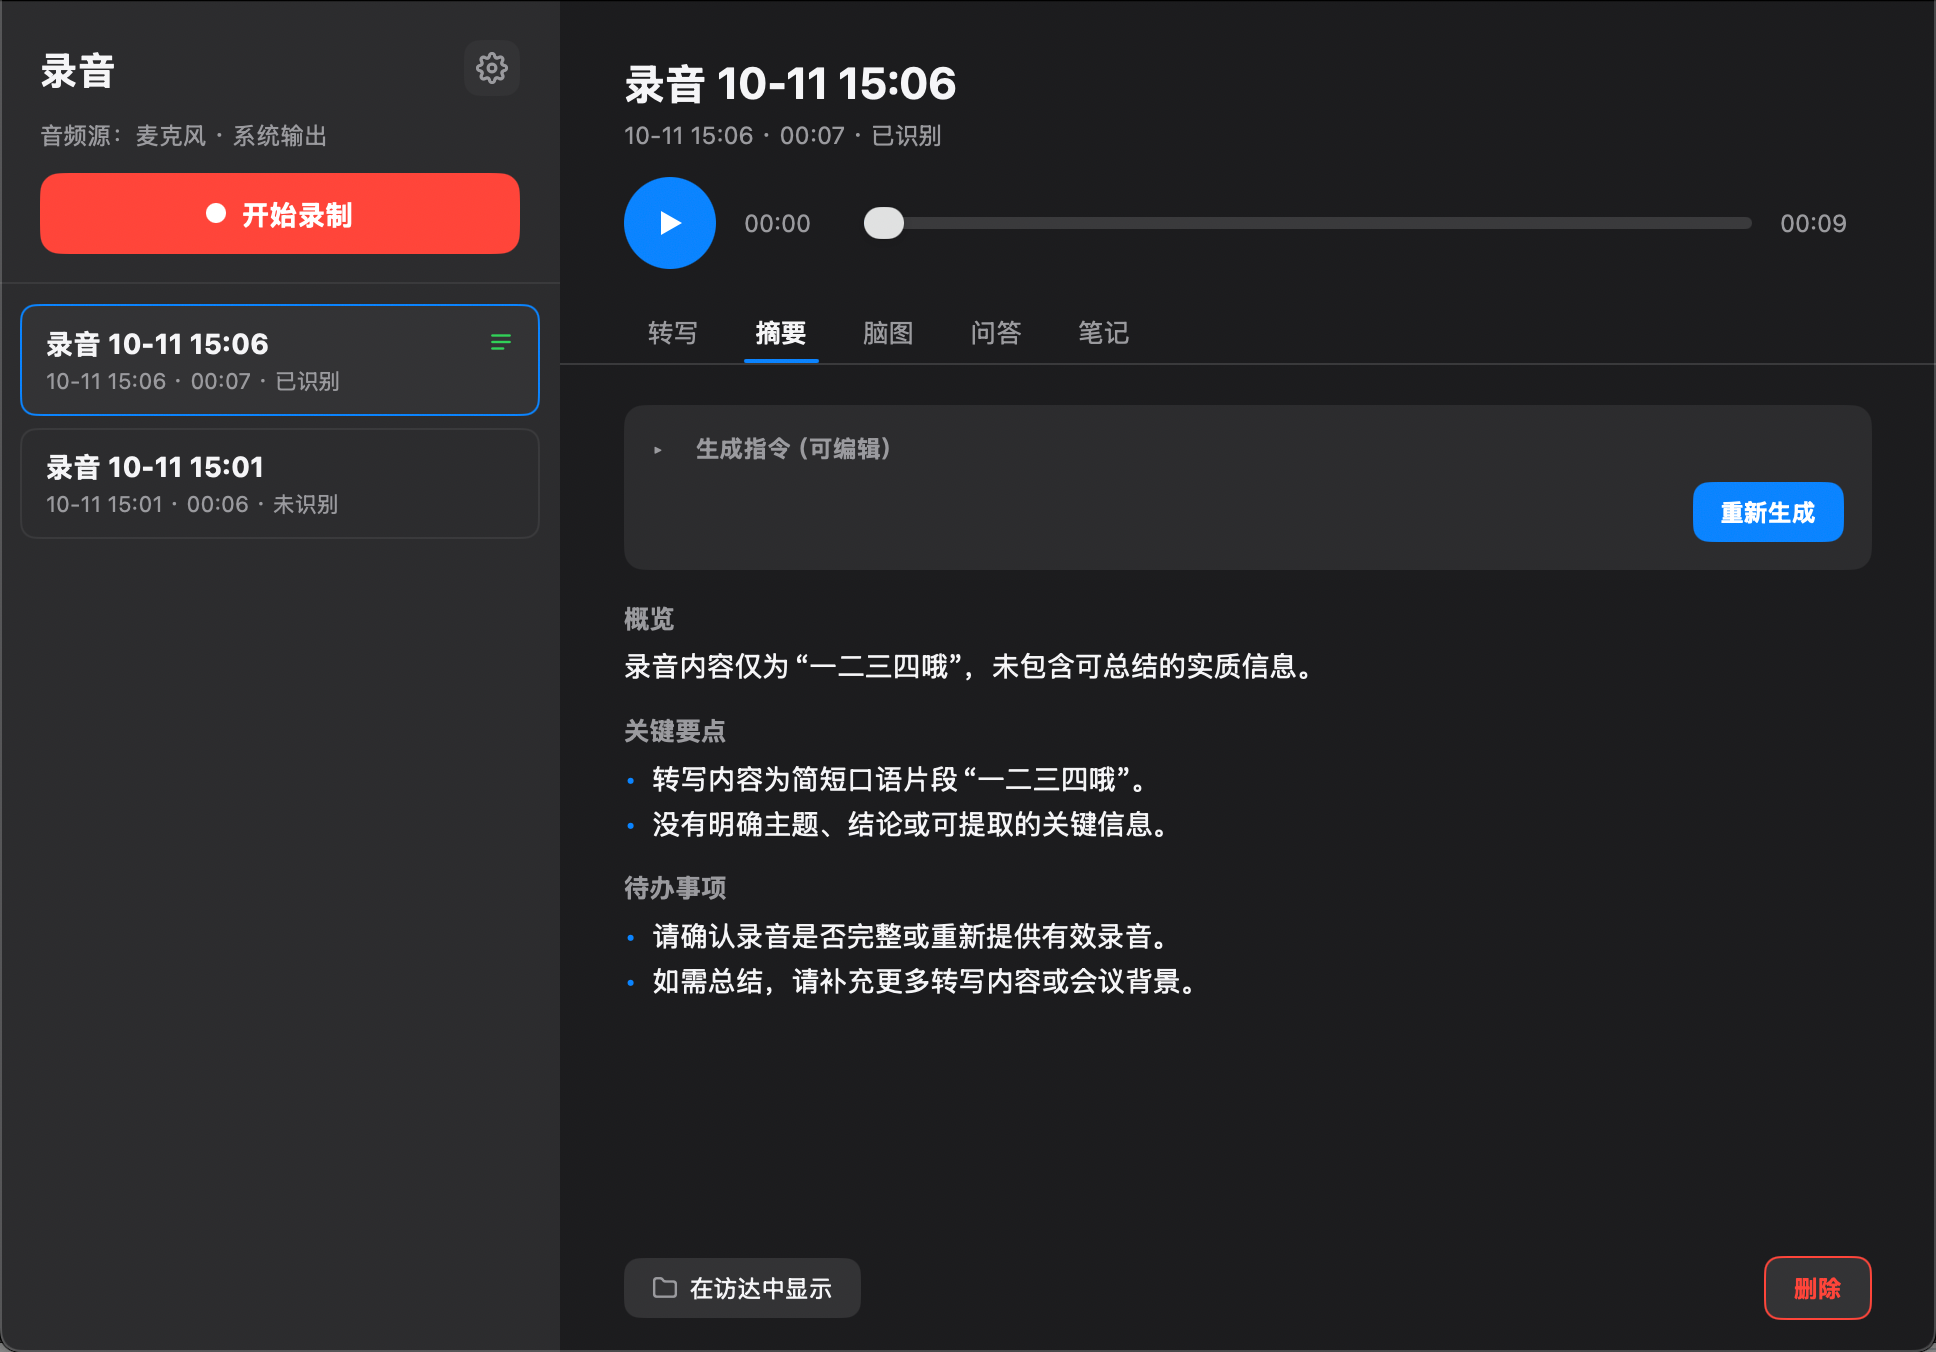
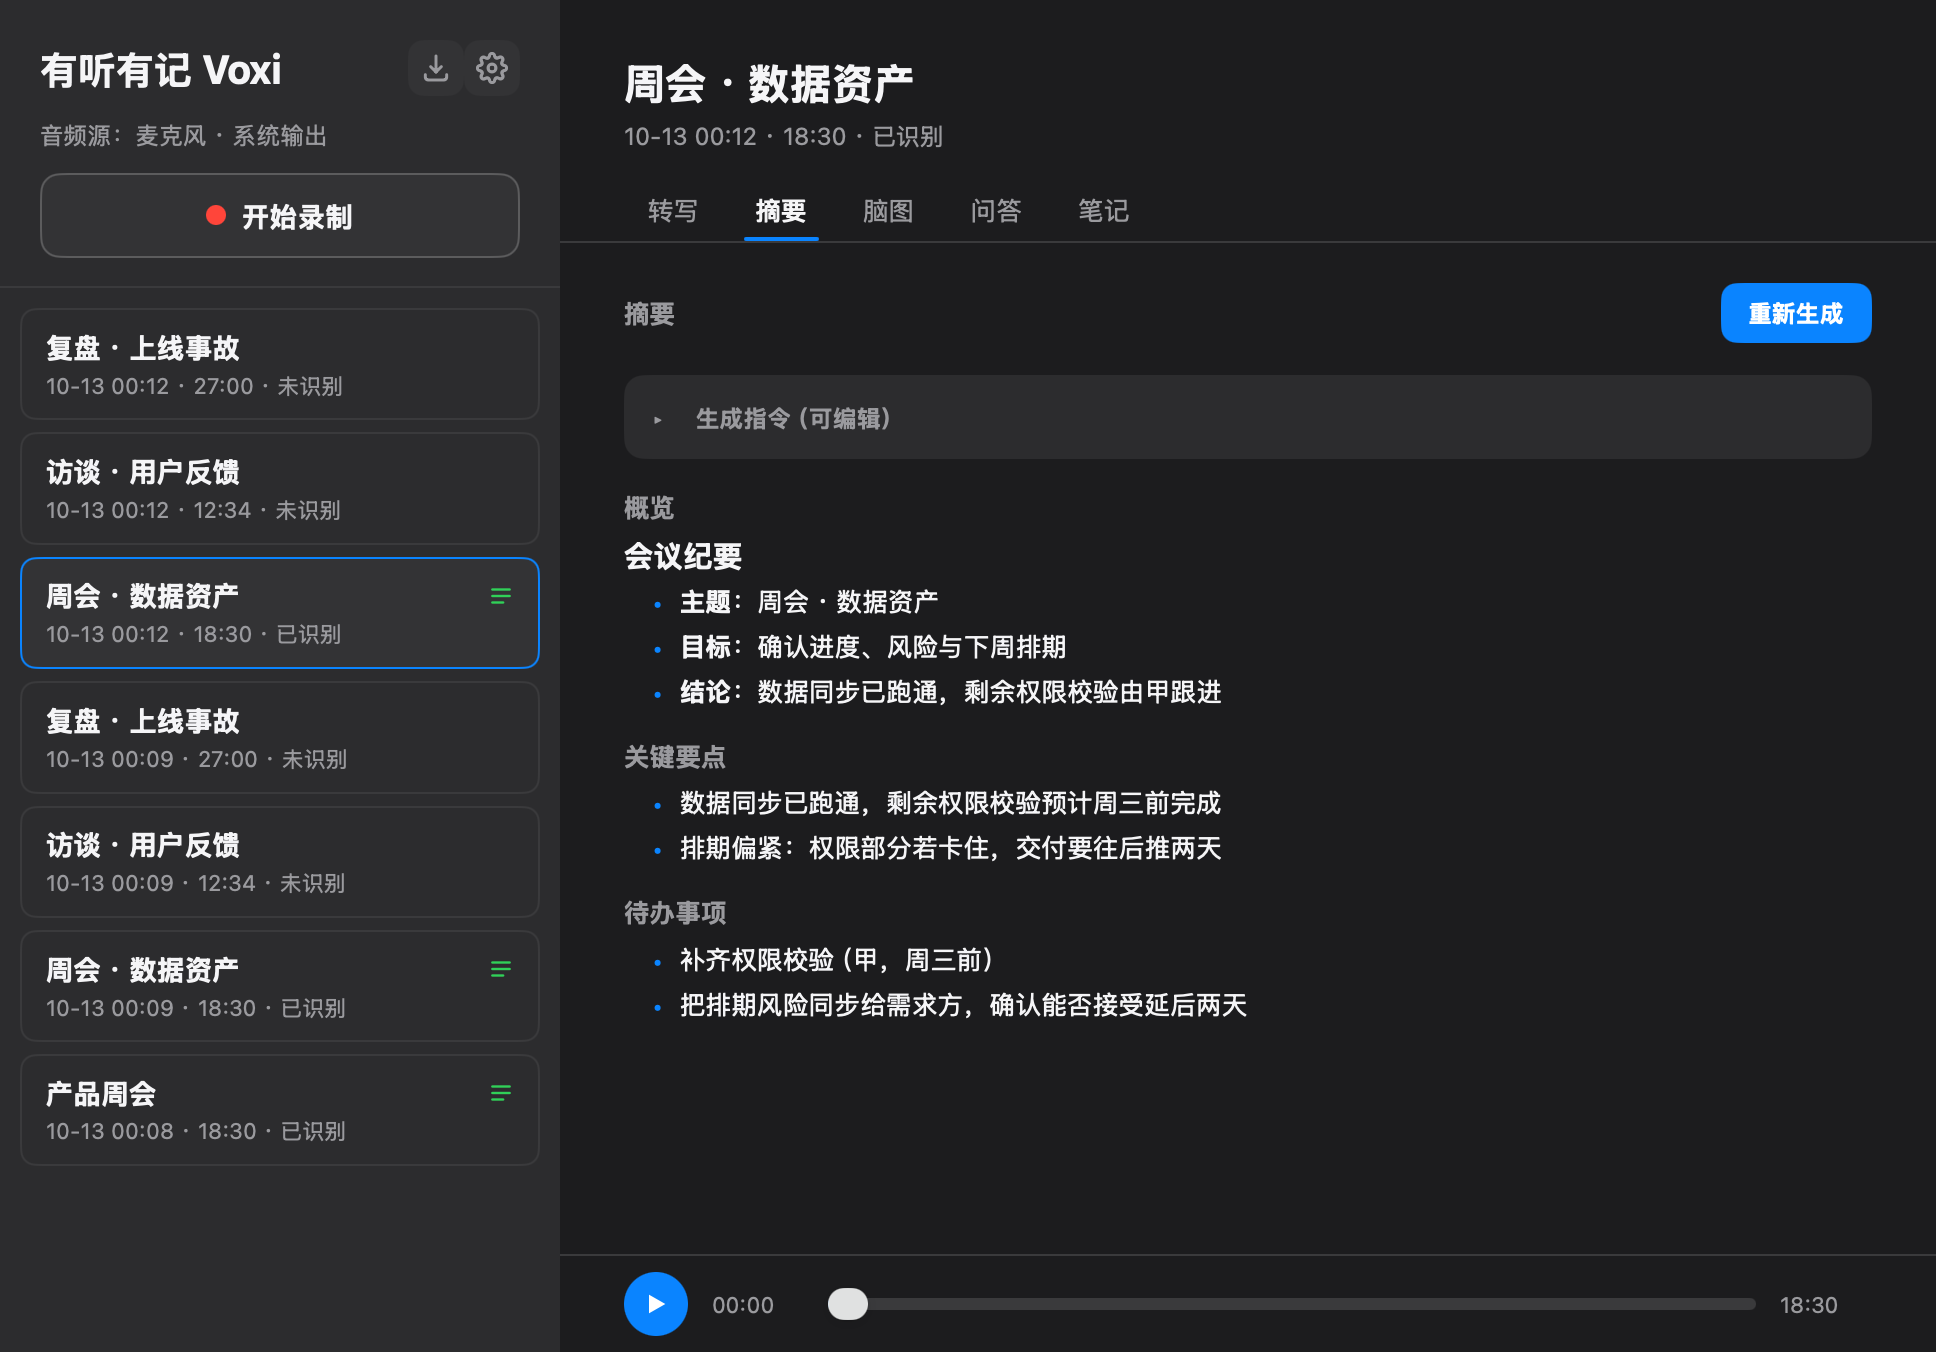
界面三处调整：侧边栏标题、摘要页头部、播放器移到底部
- 左上角「录音」改成「有听有记 Voxi」：下面那一列本身就是录音，
  不必再自报家门；窗口标题栏仍只写 Voxi
- 摘要页顶部加一行「摘要」+「生成摘要 / 重新生成」，与转写页签的
  「转写」+「开始识别」一致；按钮从「生成指令」卡片里搬出来，指令
  卡片回到只负责展开/收起。按钮在主操作处，指令在输入处
- 播放器从页签上方移到底部并压扁（按钮 46→32，时间字号 12→11），
  页签内容在它上方滚动，控制条常驻
- 摘要页新增回归测试：点按钮触发生成、点指令标题展开收起，两者不
  能互相串（按钮原本和标题同处一行）。已验证按钮比所在行更深，点击
  被按钮吃掉，不会连带触发整行
- 截图生成器改成显式触发（VOXI_SHOT=1），默认跳过，并重写
  docs/screenshot.png —— 旧图还是「录音」标题、顶部播放器和早已删掉
  的操作栏，且含真实录音名

diff --git a/internal/app/summary.go b/internal/app/summary.go
@@ -30,14 +30,16 @@ type mdEntry struct {
 	blocks []md.Block
 }
 
-// summaryView is the summary tab: an editable generation prompt on top, then
-// the generated summary (overview + highlights + action items) below.
+// summaryView is the summary tab: the tab's own row with the generate
+// button, the editable generation prompt, then the generated summary
+// (overview + highlights + action items).
 func (a *app) summaryView(c *ui.Context, rec store.Recording) {
 	a.mu.Lock()
 	busy := a.summarizing[rec.ID]
 	a.mu.Unlock()
 	ui.Column(c).Gap(16).Children(func() {
-		a.summaryPrompt(c, rec, busy)
+		a.summaryHeader(c, rec, busy)
+		a.summaryPrompt(c, rec)
 		switch {
 		case busy:
 			loadingRow(c, "正在生成摘要…")
@@ -49,10 +51,50 @@ func (a *app) summaryView(c *ui.Context, rec store.Recording) {
 	})
 }
 
-// summaryPrompt shows the generate button and a collapsible, editable
-// instruction (collapsed by default; click the header to edit it).
-func (a *app) summaryPrompt(c *ui.Context, rec store.Recording, busy bool) {
+// summaryHeader is the row over the tab: what the page is, and the button
+// that generates it. The transcript tab has the same row, and both keep the
+// action out of the card holding its input — the button is about the
+// summary, not about the prompt. The button steps aside while the work is
+// running, as the transcript tab's does.
+func (a *app) summaryHeader(c *ui.Context, rec store.Recording, busy bool) {
 	hasTranscript := rec.Transcript != nil
+	ui.Row(c).AlignItems(ui.Center).Gap(10).Children(func() {
+		ui.Text(c, "摘要").FontSize(13).Bold().TextColor(muted).Grow(1)
+		if !hasTranscript {
+			ui.Text(c, "请先在「转写」页签完成识别。").FontSize(12).TextColor(muted)
+		}
+		if busy {
+			return
+		}
+		label := "生成摘要"
+		if rec.Summary != nil {
+			label = "重新生成"
+		}
+		off := !hasTranscript
+		b := ui.ButtonBase(c.Key("gen-sum")).Padding(8, 14).Radius(8).Center().Background(accent).Disabled(off)
+		if off {
+			b.Background(cardBg2)
+		}
+		b.Children(func() {
+			fg := onAccent
+			if off {
+				fg = muted
+			}
+			ui.Text(c, label).FontSize(12).Bold().TextColor(fg)
+		})
+		if !off && b.Clicked() {
+			if d, ok := a.draftPrompt[rec.ID]; ok {
+				a.lib.SetSummaryPrompt(rec.ID, d)
+				rec.SummaryPrompt = d
+			}
+			a.generateSummary(rec)
+		}
+	})
+}
+
+// summaryPrompt is the collapsible, editable instruction the summary is
+// generated from (collapsed by default; click the header to edit it).
+func (a *app) summaryPrompt(c *ui.Context, rec store.Recording) {
 	open := a.promptOpen[rec.ID] // zero value = collapsed
 	ui.Column(c).Gap(10).Padding(14).Radius(10).Background(cardBg).Children(func() {
 		head := ui.Row(c).Gap(8).AlignItems(ui.Center).Cursor(ui.CursorPointer)
@@ -77,35 +119,6 @@ func (a *app) summaryPrompt(c *ui.Context, rec store.Recording, busy bool) {
 			ui.Text(c, "指令会原样发给模型，不加任何东西。返回的 JSON 含 overview / highlights / actions 时下面分块显示，其他格式整段显示。").
 				FontSize(11).TextColor(muted)
 		}
-		ui.Row(c).Gap(10).AlignItems(ui.Center).Children(func() {
-			if !hasTranscript {
-				ui.Text(c, "请先在「转写」页签完成识别。").FontSize(12).TextColor(muted)
-			}
-			ui.Spacer(c)
-			label := "生成摘要"
-			if rec.Summary != nil {
-				label = "重新生成"
-			}
-			off := busy || !hasTranscript
-			b := ui.ButtonBase(c.Key("gen-sum")).Padding(8, 14).Radius(8).Center().Background(accent).Disabled(off)
-			if off {
-				b.Background(cardBg2)
-			}
-			b.Children(func() {
-				fg := onAccent
-				if off {
-					fg = muted
-				}
-				ui.Text(c, label).FontSize(12).Bold().TextColor(fg)
-			})
-			if !off && b.Clicked() {
-				if d, ok := a.draftPrompt[rec.ID]; ok {
-					a.lib.SetSummaryPrompt(rec.ID, d)
-					rec.SummaryPrompt = d
-				}
-				a.generateSummary(rec)
-			}
-		})
 	})
 }
 

diff --git a/internal/app/screenshot_test.go b/internal/app/screenshot_test.go
@@ -1,0 +1,76 @@
+package app
+
+import (
+	"image/png"
+	"os"
+	"path/filepath"
+	"testing"
+
+	"github.com/egoist/mygo/ui"
+	"github.com/Beeta/voxi/internal/audio"
+	"github.com/Beeta/voxi/internal/store"
+)
+
+// TestMakeScreenshot rewrites docs/screenshot.png, the picture at the top of
+// the README. It is skipped unless VOXI_SHOT=1 is set, so a plain `go test`
+// never writes into the working tree:
+//
+//	VOXI_SHOT=1 go test ./internal/app -run TestMakeScreenshot
+//
+// The recording it draws is made up here rather than taken from a library, so
+// the README never shows anyone's real meeting.
+func TestMakeScreenshot(t *testing.T) {
+	if os.Getenv("VOXI_SHOT") != "1" {
+		t.Skip("set VOXI_SHOT=1 to rewrite docs/screenshot.png")
+	}
+	dir := t.TempDir()
+	lib, err := store.OpenStore(dir)
+	if err != nil {
+		t.Fatal(err)
+	}
+	first := lib.Add("周会 · 数据资产", filepath.Join(dir, "a.m4a"), 1110)
+	lib.SetTranscript(first.ID, &store.Transcript{Segments: []store.Segment{
+		{Start: 0, End: 6, Text: "今天主要过三件事：进度、风险和下周排期。", Speaker: "主持人"},
+		{Start: 6, End: 15, Text: "数据同步已经跑通，剩下的是权限校验，预计周三前完成。", Speaker: "甲"},
+		{Start: 15, End: 24, Text: "风险是排期偏紧，如果权限那部分卡住，交付要往后推两天。", Speaker: "乙"},
+	}})
+	lib.SetSummary(first.ID, &store.Summary{
+		Overview: "## 会议纪要\n\n- **主题**：周会 · 数据资产\n- **目标**：确认进度、风险与下周排期\n- **结论**：数据同步已跑通，剩余权限校验由甲跟进",
+		Highlights: []string{
+			"数据同步已跑通，剩余权限校验预计周三前完成",
+			"排期偏紧：权限部分若卡住，交付要往后推两天",
+		},
+		Actions: []string{
+			"补齐权限校验（甲，周三前）",
+			"把排期风险同步给需求方，确认能否接受延后两天",
+		},
+	})
+	lib.Add("访谈 · 用户反馈", filepath.Join(dir, "b.m4a"), 754)
+	lib.Add("复盘 · 上线事故", filepath.Join(dir, "c.m4a"), 1620)
+	rec, _ := lib.Get(first.ID)
+	set := &settingsStore{
+		path: filepath.Join(dir, "settings.json"),
+		s:    &Settings{Mic: true, System: true},
+	}
+	a := newApp(lib, set, audio.NewRecorder())
+	a.tab = 1
+	a.selected = rec.ID
+
+	// 968x676 is the window's content area (its height less the title bar),
+	// at 2x as a Retina window draws it.
+	tt := ui.NewTester(a.view, 968, 676)
+	tt.SetDark(true)
+	tt.SetScale(2)
+	tt.Frame()
+	tt.Frame()
+
+	out, err := os.Create(filepath.Join("..", "..", "docs", "screenshot.png"))
+	if err != nil {
+		t.Fatal(err)
+	}
+	defer out.Close()
+	if err := png.Encode(out, tt.Image()); err != nil {
+		t.Fatal(err)
+	}
+	t.Log("已重写 docs/screenshot.png")
+}

diff --git a/internal/app/summary_test.go b/internal/app/summary_test.go
@@ -1,0 +1,68 @@
+package app
+
+import (
+	"path/filepath"
+	"testing"
+
+	"github.com/egoist/mygo/ui"
+	"github.com/Beeta/voxi/internal/audio"
+	"github.com/Beeta/voxi/internal/store"
+)
+
+// TestSummaryHeaderClicks covers the summary tab's own row, where the
+// generate button and the prompt card below it are two clicks that must not
+// be confused for one another: the header toggles the prompt, the button
+// generates, and neither may do the other's job. They used to share a row.
+//
+// The tab is rendered on its own rather than through the app: the player at
+// the bottom of the pane reports a missing audio file into the same status
+// field every frame, which would drown the evidence that the button ran.
+//
+// The click on the button runs into the missing-LLM path, which stops before
+// any request is made, so the status is that evidence.
+func TestSummaryHeaderClicks(t *testing.T) {
+	dir := t.TempDir()
+	lib, err := store.OpenStore(dir)
+	if err != nil {
+		t.Fatal(err)
+	}
+	rec := lib.Add("会议", filepath.Join(dir, "m.m4a"), 60)
+	lib.SetTranscript(rec.ID, &store.Transcript{
+		Segments: []store.Segment{{Start: 0, End: 3, Text: "你好"}},
+	})
+	// Add returned a copy from before the transcript was stored, and the
+	// tab reads what it is handed: without this the recording still looks
+	// untranscribed and the button stays disabled.
+	rec, _ = lib.Get(rec.ID)
+	set := &settingsStore{path: filepath.Join(dir, "settings.json"), s: &Settings{}}
+	a := newApp(lib, set, audio.NewRecorder())
+
+	tt := ui.NewTester(func(c *ui.Context) { a.summaryView(c, rec) }, 968, 704)
+	tt.Frame()
+
+	// The prompt starts collapsed; its header expands it, and expanding it
+	// is not generating.
+	if a.promptOpen[rec.ID] {
+		t.Fatal("the prompt started expanded")
+	}
+	if err := tt.Click("生成指令（可编辑）"); err != nil {
+		t.Fatal(err)
+	}
+	if !a.promptOpen[rec.ID] {
+		t.Error("clicking the prompt header did not expand the prompt")
+	}
+	if a.status != "" {
+		t.Errorf("expanding the prompt set the status to %q", a.status)
+	}
+
+	// The button generates, and leaves the prompt as it found it.
+	if err := tt.Click("生成摘要"); err != nil {
+		t.Fatal(err)
+	}
+	if a.status != "请先在设置里配置大模型" {
+		t.Errorf("clicking 生成摘要 left the status %q, want the missing-LLM notice", a.status)
+	}
+	if !a.promptOpen[rec.ID] {
+		t.Error("clicking 生成摘要 collapsed the prompt")
+	}
+}

diff --git a/internal/app/playback.go b/internal/app/playback.go
@@ -5,6 +5,9 @@ import (
 	"github.com/Beeta/voxi/internal/store"
 )
 
+// playerBar is the pane's bottom row: the play button, the elapsed and
+// total time, and the seek bar between them. It is deliberately short — it
+// is a bar under the content, not a panel of its own.
 func (a *app) playerBar(c *ui.Context, rec store.Recording) {
 	a.ensurePlayer(rec)
 	a.mu.Lock()
@@ -26,15 +29,15 @@ func (a *app) playerBar(c *ui.Context, rec store.Recording) {
 	a.mu.Lock()
 	pos := a.playPos
 	a.mu.Unlock()
-	ui.Row(c).Gap(14).AlignItems(ui.Center).Children(func() {
-		btn := ui.ButtonBase(c.Key("play")).Size(46, 46).Radius(999).Center().Background(accent)
+	ui.Row(c).Gap(12).AlignItems(ui.Center).Children(func() {
+		btn := ui.ButtonBase(c.Key("play")).Size(32, 32).Radius(999).Center().Background(accent)
 		btn.Children(func() {
-			ui.Icon(c, playIcon(playing)).FontSize(18).TextColor(onAccent)
+			ui.Icon(c, playIcon(playing)).FontSize(14).TextColor(onAccent)
 		})
 		if btn.Clicked() {
 			a.togglePlay()
 		}
-		ui.Text(c, formatSecs(pos)).FontSize(12).TextColor(muted).Width(46)
+		ui.Text(c, formatSecs(pos)).FontSize(11).TextColor(muted).Width(46)
 		sl := ui.Slider(c.Key("seek"), &a.playPos, 0, maxf(dur, 0.001)).Grow(1)
 		if sl.Changed() && p != nil {
 			a.mu.Lock()
@@ -42,7 +45,7 @@ func (a *app) playerBar(c *ui.Context, rec store.Recording) {
 			a.mu.Unlock()
 			p.Seek(np)
 		}
-		ui.Text(c, formatSecs(dur)).FontSize(12).TextColor(muted).Width(46)
+		ui.Text(c, formatSecs(dur)).FontSize(11).TextColor(muted).Width(46)
 	})
 }
 

diff --git a/internal/app/detail.go b/internal/app/detail.go
@@ -22,9 +22,6 @@ func (a *app) detail(c *ui.Context) {
 			a.titleRow(c, rec)
 			ui.Text(c, recMeta(rec)).FontSize(12).TextColor(muted)
 		})
-		ui.Column(c).Padding(0, 32, 16).Children(func() {
-			a.playerBar(c, rec)
-		})
 		ui.Column(c).Padding(0, 32).Children(func() {
 			ui.Tabs(c.Key("tab"), &a.tab, "转写", "摘要", "脑图", "问答", "笔记")
 		})
@@ -42,6 +39,13 @@ func (a *app) detail(c *ui.Context) {
 			default:
 				a.scrollPage(c, "tr", func() { a.transcriptView(c, rec) })
 			}
+		})
+		// The player is the pane's last row, under the tab body rather than
+		// over it: the transcript or summary gets the height instead, and
+		// the controls stay put while it scrolls.
+		ui.Column(c).Height(1).Background(line)
+		ui.Column(c).Padding(8, 32).Children(func() {
+			a.playerBar(c, rec)
 		})
 	})
 }

diff --git a/internal/app/sidebar.go b/internal/app/sidebar.go
@@ -46,7 +46,10 @@ func (a *app) sidebar(c *ui.Context) {
 	ui.Column(c).Width(280).Shrink(0).Background(cardBg).Children(func() {
 		ui.Column(c).Padding(20, 20, 14).Gap(12).Children(func() {
 			ui.Row(c).AlignItems(ui.Center).Children(func() {
-				ui.Text(c, "录音").FontSize(20).Bold().TextColor(ink).Grow(1)
+				// The app's name, where the list it heads used to be named
+				// after itself: the recordings below are plainly that, and
+				// the window's own title is only "Voxi".
+				ui.Text(c, "有听有记 Voxi").FontSize(20).Bold().TextColor(ink).Grow(1).SingleLine()
 				a.importButton(c)
 				gear := ui.ButtonBase(c.Key("open-settings")).Padding(6).Radius(8).Center().Background(cardBg2)
 				gear.Children(func() { ui.Icon(c, iconGear).FontSize(16).TextColor(muted) })

diff --git a/README.md b/README.md
@@ -2,7 +2,7 @@
 
 一个 macOS 会议助手，用 [`mygo`](https://github.com/egoist/mygo) 的 `ui` 包绘制原生界面：录制会议音频，把录音管理成一个资料库，调用语音识别把它转写成带时间线的文字，再在转写之上生成摘要、脑图、问答和笔记。
 
-![有听有记 Voxi 的界面：左侧是录音库，右侧是选中录音的详情，顶部播放器下面分转写、摘要、脑图、问答、笔记五个页签](docs/screenshot.png)
+![有听有记 Voxi 的界面：左侧是录音库，右侧是选中录音的详情，标题下面分转写、摘要、脑图、问答、笔记五个页签，底部是播放器](docs/screenshot.png)
 
 ## 前置准备
 
@@ -165,7 +165,7 @@ internal/tunnel/  cloudflared quick tunnel，供 ASR 从公网取音频
 
 ## 管理与识别
 
-左侧是录音库，右侧是选中录音的详情。详情页顶部是可拖动进度条的播放器，下面是分页签：
+左侧是录音库，右侧是选中录音的详情。详情页从上到下是标题、分页签，底部是一条常驻的播放器（播放键、可拖动的进度条、已播 / 总时长），页签内容在它上方滚动：
 
 - **转写**：调用豆包语音把录音识别成带时间戳的分段文字；点时间戳跳转播放、点文字就地编辑（自动保存）、点说话人改名（可选「仅此条」或「全部相同」）；顶部「重新识别」可重跑（会覆盖当前转写）。录音文件原样（`.m4a`）提交，不做转码。
 - **摘要**：把转写发给大模型，生成「概览 + 关键要点 + 待办事项」，生成指令（prompt）可编辑。
